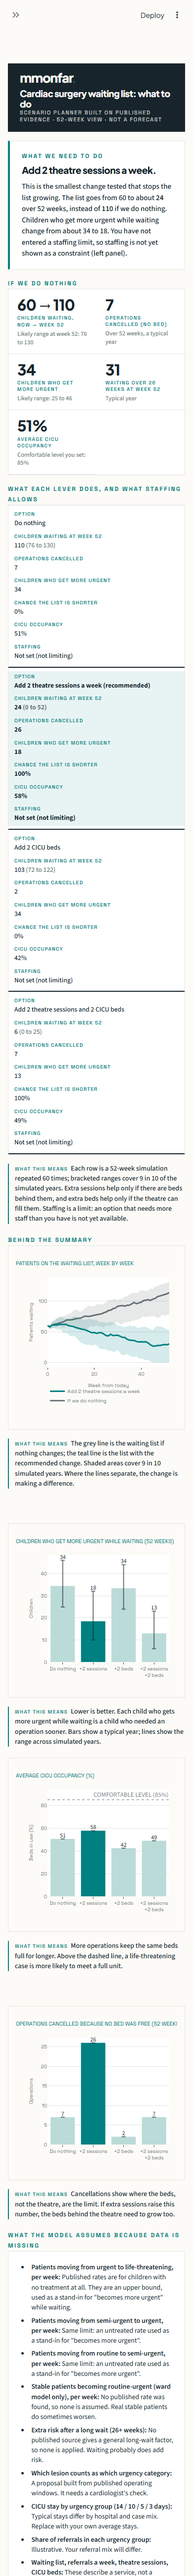
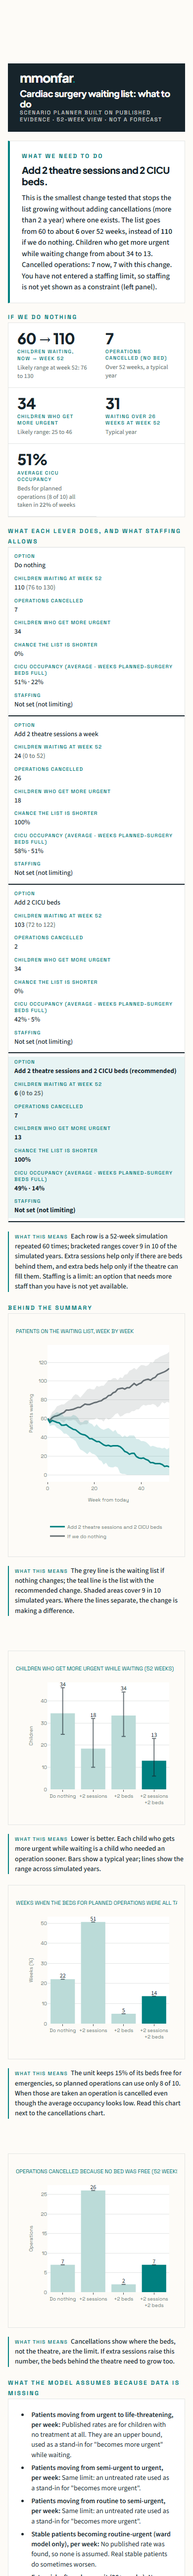
fix: recommendation avoids extra cancellations, shows planned-surgery bed limit
Recommend the smallest list-stopping option that does not raise cancelled
operations (tolerance 2 a year), else the fewest-cancellation option with the
trade-off named in the box. Show weeks when beds open to planned operations
were all taken next to average occupancy. Hide the Streamlit toolbar and Deploy
button, taller waiting-list chart, whitespace-only format of two engine files,
screenshots refreshed.

diff --git a/src/cardiac_capacity_planner/scenarios.py b/src/cardiac_capacity_planner/scenarios.py
@@ -41,6 +41,8 @@ class Outcome:
     occupancy: float
     over_26_end: float
     p_list_shrinks: float
+    weeks_at_limit: float  # share of weeks the beds open to planned operations were all taken
+    elective_beds: int  # beds open to planned operations (the comfortable level x beds)
     cat1_waits: float  # share of runs where a life-threatening case waited for a bed
     staffing: str
     staffing_ok: bool
@@ -87,6 +89,20 @@ def staffing_check(
     return "Needs " + " and ".join(parts), False, ds, db
 
 
+def _weeks_at_limit(pol: cp.PolicyParams, n: int = 20) -> float:
+    """Share of weeks in which the beds open to planned operations were all taken at some point.
+
+    Planned operations are cancelled when those beds are full, even if average occupancy is low.
+    """
+    hit = 0
+    total = 0
+    for i in range(n):
+        f = cp.run_frame(pol, WEEKS, SEED0 + i).dropna(subset=["occupancy_peak"])
+        hit += int((f["occupancy_peak"] >= pol.elective_limit - 1e-9).sum())
+        total += len(f)
+    return hit / total if total else 0.0
+
+
 def evaluate(
     base: cp.PolicyParams, opt: Option, staffed_sessions: int, staffed_beds: int
 ) -> Outcome:
@@ -111,6 +127,8 @@ def evaluate(
         occupancy=float(np.median(arr("mean_occupancy"))),
         over_26_end=float(np.median(arr("over_26_end"))),
         p_list_shrinks=float(np.mean(end <= arr("list_start"))),
+        weeks_at_limit=_weeks_at_limit(pol),
+        elective_beds=pol.elective_limit,
         cat1_waits=float(np.mean(arr("cat1_unserved_days") > 0)),
         staffing=text,
         staffing_ok=ok,
@@ -119,18 +137,46 @@ def evaluate(
     )
 
 
-def recommend(outcomes: list[Outcome]) -> Outcome | None:
-    """The smallest change that stops the list growing; staffing-ok changes first.
+CANCEL_TOLERANCE = 2  # extra cancelled operations a year that still count as "no worse"
 
-    Order of preference is the order of ``options`` (sessions, then beds, then both), and an
-    option inside the staffing cap wins over one outside it. ``None`` if nothing helps.
+
+def cancels_ok(now: Outcome, o: Outcome) -> bool:
+    """True if the option does not raise cancellations above do-nothing (plus the tolerance)."""
+    return o.cancelled <= now.cancelled + CANCEL_TOLERANCE
+
+
+def recommend(outcomes: list[Outcome]) -> Outcome | None:
+    """The smallest change that stops the list growing without raising cancellations.
+
+    Order of preference is the order of ``options`` (sessions, beds, both); an option inside the
+    staffing cap wins over one outside it. If every list-stopping option raises cancellations
+    above do-nothing (by more than ``CANCEL_TOLERANCE``), the one with the fewest cancellations is
+    recommended and ``tradeoff`` names the cost. ``None`` if nothing stops the list growing.
     """
-    levers = outcomes[1:]
-    helps = [o for o in levers if o.stops_growth]
-    inside = [o for o in helps if o.staffing_ok]
-    if inside:
-        return inside[0]
-    return helps[0] if helps else None
+    now = outcomes[0]
+    helps = [o for o in outcomes[1:] if o.stops_growth]
+    if not helps:
+        return None
+    clean = [o for o in helps if cancels_ok(now, o)]
+    pool = clean or sorted(helps, key=lambda o: (o.cancelled, o.list_end))[:1]
+    inside = [o for o in pool if o.staffing_ok]
+    return (inside or pool)[0]
+
+
+def tradeoff(outcomes: list[Outcome], pick: Outcome) -> str:
+    """Plain-language trade-off when the recommendation raises cancellations, else empty."""
+    now = outcomes[0]
+    if cancels_ok(now, pick):
+        return ""
+    text = (
+        f"This also raises cancelled operations from {now.cancelled:.0f} to {pick.cancelled:.0f} "
+        "a year, because the beds become the limit."
+    )
+    safer = [o for o in outcomes[1:] if o is not pick and o.stops_growth and cancels_ok(now, o)]
+    if safer:
+        o = safer[0]
+        text += f" {o.option.label} keeps cancellations at {o.cancelled:.0f}."
+    return text
 
 
 def weekly_list(base: cp.PolicyParams, opt: Option, n: int = 40) -> tuple[list[int], ...]:

diff --git a/src/cardiac_capacity_planner/views/summary.py b/src/cardiac_capacity_planner/views/summary.py
@@ -84,10 +84,16 @@ elif pick is None:
 else:
     headline = f"{pick.option.label}."
     because = (
-        f"This is the smallest change tested that stops the list growing. The list goes from {pick.list_start:.0f} to about "
+        f"This is the smallest change tested that stops the list growing without adding cancellations (more than 2 a year) where one exists. The list goes from {pick.list_start:.0f} to about "
         f"<b>{pick.list_end:.0f}</b> over 52 weeks, instead of <b>{now.list_end:.0f}</b> if we do nothing. "
         f"Children who get more urgent while waiting change from about {now.worsen:.0f} to {pick.worsen:.0f}. "
     )
+    trade = scenarios.tradeoff(outs, pick)
+    because += (
+        f"Cancelled operations: {now.cancelled:.0f} now, {pick.cancelled:.0f} with this change. "
+    )
+    if trade:
+        because += f"<b>Trade-off:</b> {trade} "
     if pick.staffing_ok and staffed_sessions <= 0 and staffed_beds <= 0:
         because += "You have not entered a staffing limit, so staffing is not yet shown as a constraint (left panel)."
     elif pick.staffing_ok:
@@ -119,7 +125,7 @@ ui.kpis(
         (
             f"{100 * now.occupancy:.0f}%",
             "Average CICU occupancy",
-            f"Comfortable level you set: {target_pct}%",
+            f"Beds for planned operations ({now.elective_beds} of {beds}) all taken in <b>{100 * now.weeks_at_limit:.0f}%</b> of weeks",
         ),
     ]
 )
@@ -129,7 +135,7 @@ ui.section("What each lever does, and what staffing allows")
 head = (
     "<tr><th>Option</th><th>Children waiting at week 52</th><th>Operations cancelled</th>"
     "<th>Children who get more urgent</th><th>Chance the list is shorter</th>"
-    "<th>CICU occupancy</th><th>Staffing</th></tr>"
+    "<th>CICU occupancy (average · weeks planned-surgery beds full)</th><th>Staffing</th></tr>"
 )
 rows = ""
 for o in outs:
@@ -140,7 +146,7 @@ for o in outs:
         f"<tr{cls}><td data-label='Option'>{escape(o.option.label)}{mark}</td>"
         f'<td class="num" data-label="Children waiting at week 52">{o.list_end:.0f} <span style="color:#6E7B80">({o.list_end_lo:.0f} to {o.list_end_hi:.0f})</span></td>'
         f'<td class="num" data-label="Operations cancelled">{o.cancelled:.0f}</td><td class="num" data-label="Children who get more urgent">{o.worsen:.0f}</td>'
-        f'<td class="num" data-label="Chance the list is shorter">{100 * o.p_list_shrinks:.0f}%</td><td class="num" data-label="CICU occupancy">{100 * o.occupancy:.0f}%</td>'
+        f'<td class="num" data-label="Chance the list is shorter">{100 * o.p_list_shrinks:.0f}%</td><td class="num" data-label="CICU occupancy (average · weeks planned-surgery beds full)">{100 * o.occupancy:.0f}% · {100 * o.weeks_at_limit:.0f}%</td>'
         f"<td data-label='Staffing'>{escape(o.staffing)}</td></tr>"
     )
 st.markdown(
@@ -179,20 +185,20 @@ with right:
     )
 left, right = st.columns(2, gap="large")
 with left:
-    occ = [100 * o.occupancy for o in outs]
+    over = [100 * o.weeks_at_limit for o in outs]
     ui.show(
         charts.option_bars(
             labels,
-            occ,
-            occ,
-            occ,
-            "AVERAGE CICU OCCUPANCY (%)",
-            "Beds in use (%)",
+            over,
+            over,
+            over,
+            "WEEKS WHEN THE BEDS FOR PLANNED OPERATIONS WERE ALL TAKEN (%)",
+            "Weeks (%)",
             highlight=highlight,
-            limit=float(target_pct),
-            limit_label=f"COMFORTABLE LEVEL ({target_pct}%)",
         ),
-        "More operations keep the same beds full for longer. Above the dashed line, a life-threatening case is more likely to meet a full unit.",
+        f"The unit keeps {100 - target_pct}% of its beds free for emergencies, so planned operations can use only "
+        f"{now.elective_beds} of {beds}. When those are taken an operation is cancelled even though the average "
+        "occupancy looks low. Read this chart next to the cancellations chart.",
     )
 with right:
     can = [o.cancelled for o in outs]

diff --git a/tests/app/test_summary_page.py b/tests/app/test_summary_page.py
@@ -80,3 +80,46 @@ def test_recommendation_prefers_an_option_inside_staffing() -> None:
         or pick2.staffing_ok
         or not any(o.staffing_ok and o.stops_growth for o in capped[1:])
     )
+
+
+def _outcome(opt: scenarios.Option, end: float, cancelled: float) -> scenarios.Outcome:
+    return scenarios.Outcome(
+        option=opt, list_start=60, list_end=end, list_end_lo=end, list_end_hi=end,
+        cancelled=cancelled, worsen=10, worsen_lo=5, worsen_hi=15, occupancy=0.5,
+        over_26_end=0, p_list_shrinks=1.0, weeks_at_limit=0.3, elective_beds=8, cat1_waits=0.0,
+        staffing="Not set (not limiting)", staffing_ok=True,
+        extra_sessions_needed=0, extra_beds_needed=0,
+    )  # fmt: skip
+
+
+def test_recommendation_skips_option_that_raises_cancellations() -> None:
+    o = scenarios.options(5, 10, 2)
+    outs = [
+        _outcome(o[0], 110, 7),  # do nothing: list grows
+        _outcome(o[1], 24, 26),  # stops growth, but cancellations 7 -> 26
+        _outcome(o[2], 103, 2),  # does not stop growth
+        _outcome(o[3], 6, 7),  # stops growth, cancellations unchanged
+    ]
+    pick = scenarios.recommend(outs)
+    assert pick is outs[3]
+    assert scenarios.tradeoff(outs, pick) == ""
+
+
+def test_recommendation_names_the_tradeoff_when_nothing_avoids_it() -> None:
+    o = scenarios.options(5, 10, 2)
+    outs = [
+        _outcome(o[0], 110, 7),
+        _outcome(o[1], 24, 26),
+        _outcome(o[2], 103, 2),
+        _outcome(o[3], 20, 30),
+    ]
+    pick = scenarios.recommend(outs)
+    assert pick is outs[1]  # fewest cancellations among those that stop the list growing
+    text = scenarios.tradeoff(outs, pick)
+    assert "from 7 to 26" in text and "beds become the limit" in text
+
+
+def test_summary_page_states_cancellations_and_days_full(summary: AppTest) -> None:
+    html = _html(summary)
+    assert "Cancelled operations:" in html
+    assert "weeks planned-surgery beds full" in html

diff --git a/src/cardiac_capacity_planner/ui.py b/src/cardiac_capacity_planner/ui.py
@@ -35,6 +35,7 @@ CSS = """
                      margin: 12px 0 auto; }
   .ccp-card .context { color: var(--mm-ink-2); font-size: 14px; border-top: 1px solid
                        var(--mm-rule); padding-top: 10px; margin-top: 14px; }
+  [data-testid="stToolbar"], [data-testid="stDeployButton"], #MainMenu { display: none !important; }
   .ccp-side .mm-wordmark { font-size: 30px; }
   .ccp-band { background: #17242B; color: #FDFBF7; padding: 18px 24px; margin-bottom: 18px;
               display: flex; flex-wrap: wrap; align-items: center; gap: 10px 28px; }

diff --git a/src/cardiac_capacity/ward_referral.py b/src/cardiac_capacity/ward_referral.py
@@ -251,7 +251,7 @@ class WardReferralSimulator:
 
     params: Mapping[str, Any] = field(default_factory=lambda: dict(DEFAULT_PARAMS))
     current_ward: Sequence[Mapping[str, Any]] = ()
-    model_version: str = "v1"  # "v1" is pinned; "v2" is ``ward_referral_v2`` 
+    model_version: str = "v1"  # "v1" is pinned; "v2" is ``ward_referral_v2``
     start_mode: str = "today"  # v2 only: "today" or "settled"
     warmup_weeks: int = 52  # v2 only, settled start
 

diff --git a/src/cardiac_capacity_planner/charts.py b/src/cardiac_capacity_planner/charts.py
@@ -58,7 +58,7 @@ def list_compare(
         fig.add_trace(go.Scatter(x=w, y=med, name=name, line={"color": colour, "width": 3}))
     fig.update_layout(
         title="PATIENTS ON THE WAITING LIST, WEEK BY WEEK",
-        height=340, template=TEMPLATE, margin=_MARGIN,
+        height=460, template=TEMPLATE, margin=_MARGIN,
         legend={"orientation": "h", "y": -0.45},
     )  # fmt: skip
     _axes(fig, "Week from today", "Patients waiting")

diff --git a/src/cardiac_capacity/cicu.py b/src/cardiac_capacity/cicu.py
@@ -275,7 +275,7 @@ class CicuSimulator:
 
     capacity: int = 5
     params: CicuParams = CicuParams()
-    model_version: str = "v1"  # "v1" is pinned; "v2" = occupancy from operated patients 
+    model_version: str = "v1"  # "v1" is pinned; "v2" = occupancy from operated patients
 
     @property
     def mode(self) -> str:

diff --git a/README.md b/README.md
@@ -12,7 +12,7 @@ What happens to the cardiac waiting list if we add theatre time, beds or staff? 
 
 Open the app and the first screen answers four questions without any set-up:
 
-1. **What do we need to do?** The smallest change tested that stops the waiting list growing, in one sentence.
+1. **What do we need to do?** The smallest change tested that stops the waiting list growing without adding cancelled operations, in one sentence. If every such change adds cancellations, it names the trade-off.
 2. **What if we do nothing?** The waiting list, operations cancelled for lack of a bed, and children who get more urgent while waiting, over the next 52 weeks.
 3. **What does each lever do?** Extra theatre sessions, extra CICU beds, or both, side by side, with the effect of each.
 4. **What does staffing allow?** Enter how many theatre sessions and CICU beds your staff can cover. Any option that needs more is marked as needing more staff.

diff --git a/CHANGELOG.md b/CHANGELOG.md
@@ -12,6 +12,8 @@ Format follows [Keep a Changelog](https://keepachangelog.com/en/1.1.0/); version
 - Phone-width layout checked at 390 px.
 - README rewritten around the question the tool answers; screenshots added in `docs/screenshots/`.
 
+- The recommendation avoids options that raise cancelled operations (tolerance 2 a year) and states the trade-off when none can; the table and chart show days with every CICU bed full next to average occupancy; the Streamlit toolbar and Deploy button are hidden.
+
 ### Added
 - `cardiac_capacity.evidence`: one list of every default, its source and the gap it stands in for (feeds the README table and the in-app panel).
 - `cardiac_capacity_planner.scenarios`: the comparison and staffing check behind the first screen, with tests.
